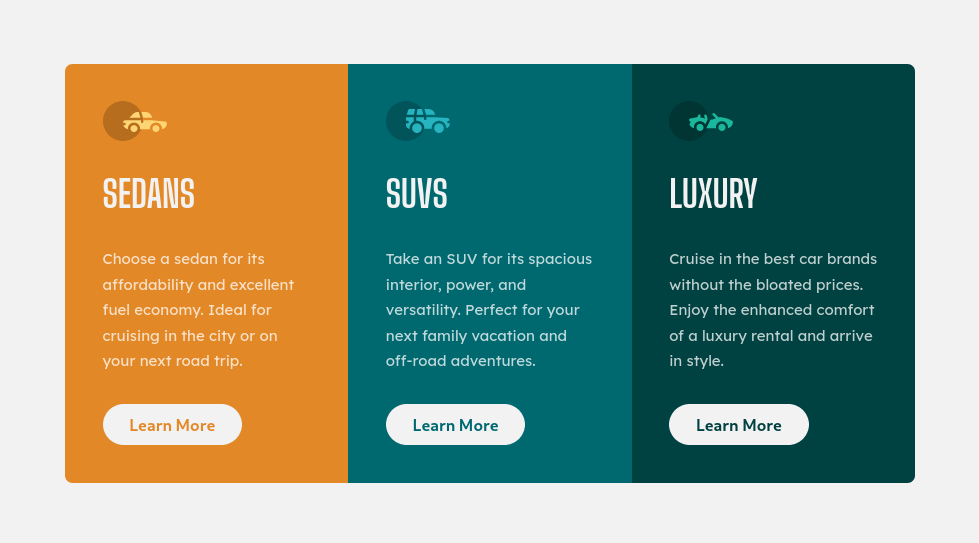
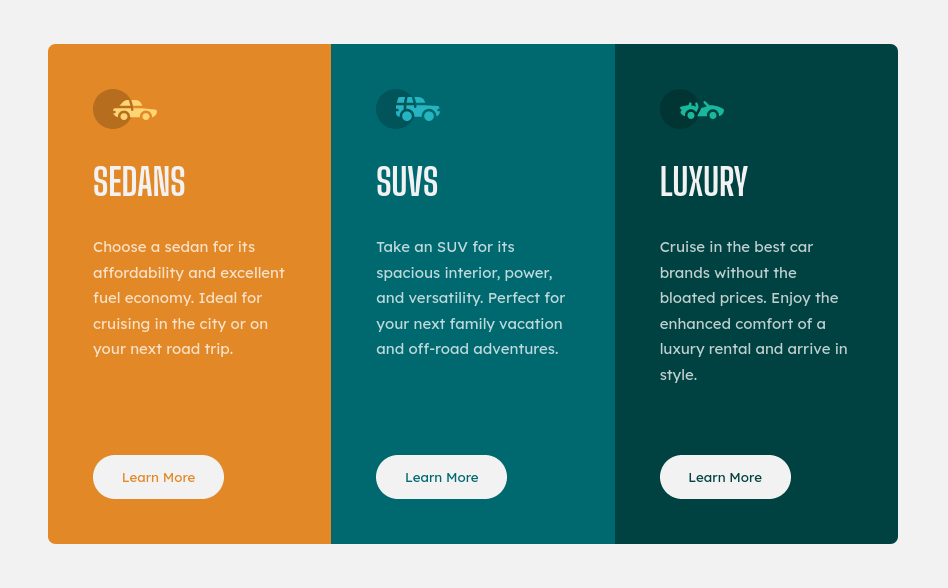
style fix and new screenshots

diff --git a/styles/elements/buttons.css b/styles/elements/buttons.css
@@ -7,12 +7,13 @@ button {
 	justify-content: center;
 
 	padding-inline: 1em;
-	padding-block: 0.5em;
+	/* padding-block: 0.5em; */
 
 	cursor: pointer;
 
+	font-family: var(--font-main);
 	text-transform: capitalize;
-	font-weight: 700;
+	line-height: 3;
 
 	border-radius: 0.5em;
 	border: 2px solid var(--bg);
@@ -26,7 +27,7 @@ button:hover {
 	--bg: hsl(0, 0%, 90%);
 }
 
-button:active,
+button:focus-visible,
 button:target,
 button:focus {
 	outline: 2px dotted var(--bg);

diff --git a/styles/components/section-columns.css b/styles/components/section-columns.css
@@ -4,6 +4,7 @@
 
 	margin: 3em;
 	max-width: 850px;
+	min-height: 500px;
 
 	border-radius: 0.5em;
 	overflow: hidden;
@@ -20,7 +21,7 @@
 	flex: 1 1;
 
 	min-width: 250px;
-	padding: 2.5em;
+	padding: 3em;
 
 	background-color: var(--main-color);
 }
@@ -41,10 +42,9 @@
 	--fg: var(--main-color);
 
 	margin-top: auto;
-	padding-inline: 1.5em;
+	padding-inline: 2em;
 
 	white-space: nowrap;
-	font-size: 1.1em;
 	border-radius: 100px;
 }
 .section-columns__action-button:hover {

diff --git a/styles/base.css b/styles/base.css
@@ -5,9 +5,10 @@
 }
 
 body {
+	--font-main: "Lexend Deca", sans-serif;
 	min-height: 100vh;
 
-	font-family: "Lexend Deca", sans-serif;
+	font-family: var(--font-main);
 	font-size: 15px;
 	color: var(--white-500);
 

diff --git a/README.md b/README.md
@@ -40,8 +40,8 @@ Here is the component at various sizes.
 
 ### Links
 
-- Solution URL: [Add solution URL here](https://your-solution-url.com)
-- Live Site URL: [Add live site URL here](https://your-live-site-url.com)
+- Solution URL: [solution](https://your-solution-url.com)
+- Live Site URL: [Github pages](https://padrontoni.github.io/FM-3-column-preview-card-component/)
 
 ## My process
 
@@ -62,5 +62,5 @@ It was very funny!
 
 ## Author
 
-- Website - [Add your name here](https://www.your-site.com)
-- Frontend Mentor - [@yourusername](https://www.frontendmentor.io/profile/yourusername)
+- Website - [Simone Boccuzzi](https://github.com/PadronToni)
+- Frontend Mentor - [@PadronToni](https://www.frontendmentor.io/profile/yourusername)
